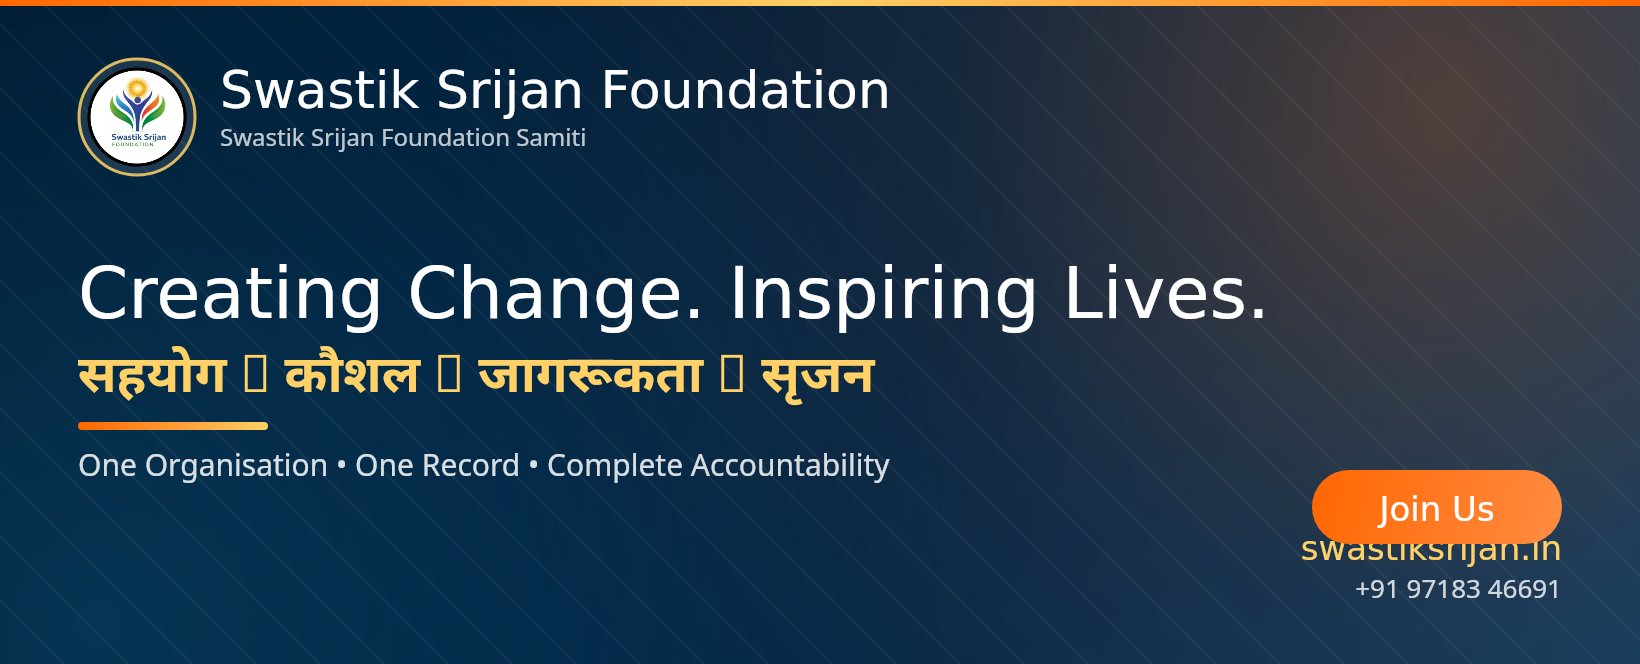
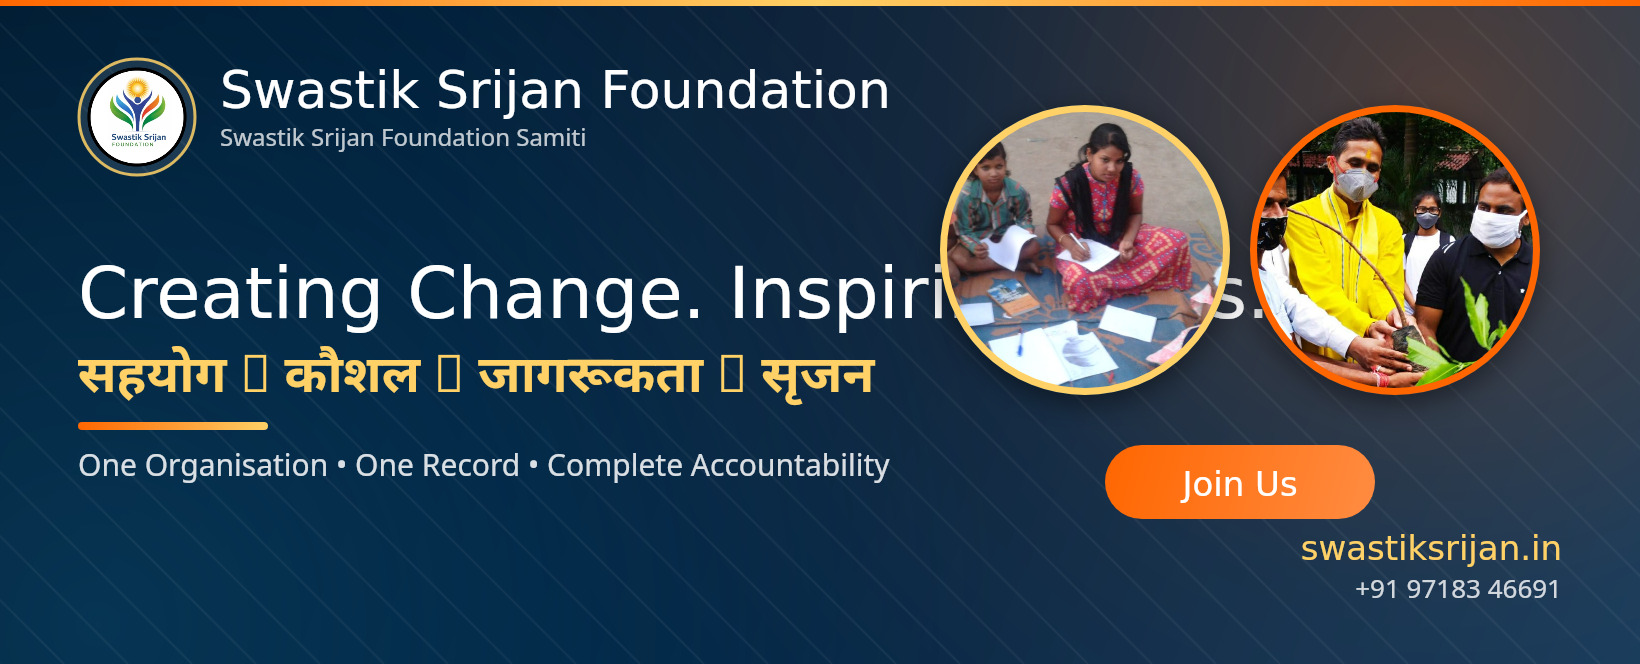
Social covers: add round SSF photo frames in the middle
- Facebook cover now carries two round photo frames (education + tree
  plantation) centre-right; LinkedIn carries one centre-top.
- Frames centre-crop real SSF photos with a gold/orange ring and soft shadow.

Changed region(s): [[0.5598, 0.1506, 0.964, 0.6024], [0.653, 0.6627, 0.964, 0.8434]]

diff --git a/backend_node/scripts/makeSocialCovers.js b/backend_node/scripts/makeSocialCovers.js
@@ -123,6 +123,28 @@ async function drawLogo(ctx, x, y, size) {
   ctx.lineWidth = 3; ctx.strokeStyle = 'rgba(255,209,102,0.85)'; ctx.stroke();
 }
 
+// Round photo frame: centre-crops a real SSF photo into a circle with a ring.
+async function drawCirclePhoto(ctx, file, cx, cy, r, ring = '#FFD166', ringW = 6) {
+  const img = await loadImage(path.join(ROOT, '..', 'public', 'images', file));
+  const d = r * 2;
+  const scale = Math.max(d / img.width, d / img.height);
+  const dw = img.width * scale, dh = img.height * scale;
+  ctx.save();
+  // soft shadow
+  ctx.shadowColor = 'rgba(0,0,0,0.45)';
+  ctx.shadowBlur = 28;
+  ctx.shadowOffsetY = 8;
+  ctx.beginPath(); ctx.arc(cx, cy, r, 0, Math.PI * 2);
+  ctx.fillStyle = '#0b3a63'; ctx.fill();
+  ctx.restore();
+  ctx.save();
+  ctx.beginPath(); ctx.arc(cx, cy, r - ringW / 2, 0, Math.PI * 2); ctx.clip();
+  ctx.drawImage(img, cx - dw / 2, cy - dh / 2, dw, dh);
+  ctx.restore();
+  ctx.beginPath(); ctx.arc(cx, cy, r - ringW / 2, 0, Math.PI * 2);
+  ctx.lineWidth = ringW; ctx.strokeStyle = ring; ctx.stroke();
+}
+
 function drawPill(ctx, x, y, w, h, label) {
   const g = ctx.createLinearGradient(x, y, x + w, y + h);
   g.addColorStop(0, ORANGE);
@@ -174,6 +196,10 @@ async function facebookCover() {
   ctx.font = ENr(30); ctx.fillText(BRAND.tagline, hx, hy + 158);
   ctx.globalAlpha = 1;
 
+  // two round SSF photo frames (centre-right), overlap-free
+  await drawCirclePhoto(ctx, 'real/girls-study-group-mat.jpg', 1085, 250, 145, YELLOW, 7);
+  await drawCirclePhoto(ctx, 'real/tree_plantation.jpg', 1395, 250, 145, ORANGE, 7);
+
   // contact + CTA bottom-right (bottom-left kept clear for the profile pic)
   ctx.textAlign = 'right';
   ctx.fillStyle = YELLOW; ctx.font = EN(34);
@@ -182,7 +208,7 @@ async function facebookCover() {
   ctx.fillText(BRAND.phone, W - M, 598);
   ctx.globalAlpha = 1;
   ctx.textAlign = 'left';
-  drawPill(ctx, W - M - 250, 470, 250, 74, 'Join Us');
+  drawPill(ctx, 1105, 445, 270, 74, 'Join Us');
 
   fs.writeFileSync(path.join(OUT_DIR, 'facebook-cover-1640x664.png'), canvas.toBuffer('image/png'));
 }
@@ -198,7 +224,7 @@ async function linkedinCover() {
   // brand block top-left; bottom-left stays clear (profile pic overlaps it)
   await drawLogo(ctx, M, 26, 84);
   ctx.fillStyle = '#ffffff'; ctx.textAlign = 'left';
-  const nameSize = fitFont(ctx, BRAND.name, 'NotoSansB', 800, 600, 40);
+  const nameSize = fitFont(ctx, BRAND.name, 'NotoSansB', 800, 500, 40);
   ctx.font = EN(nameSize); ctx.fillText(BRAND.name, M + 102, 58);
   ctx.fillStyle = YELLOW; ctx.font = EN(22);
   ctx.fillText(BRAND.mottoEn, M + 102, 90);
@@ -206,9 +232,12 @@ async function linkedinCover() {
   ctx.fillText(BRAND.mottoHi, M + 102, 118);
   ctx.globalAlpha = 1;
 
+  // one round SSF photo frame (centre-right)
+  await drawCirclePhoto(ctx, 'real/community-education-meeting.jpg', 970, 95, 66, YELLOW, 5);
+
   // contact top-right
   ctx.textAlign = 'right';
-  ctx.fillStyle = YELLOW; ctx.font = EN(26); ctx.fillText(BRAND.website, W - M, 70);
+  ctx.fillStyle = YELLOW; ctx.font = EN(26); ctx.fillText(BRAND.website, W - M, 60);
   ctx.fillStyle = '#ffffff'; ctx.globalAlpha = 0.8; ctx.font = ENr(19);
   ctx.fillText(BRAND.phone, W - M, 100);
   ctx.globalAlpha = 1;
